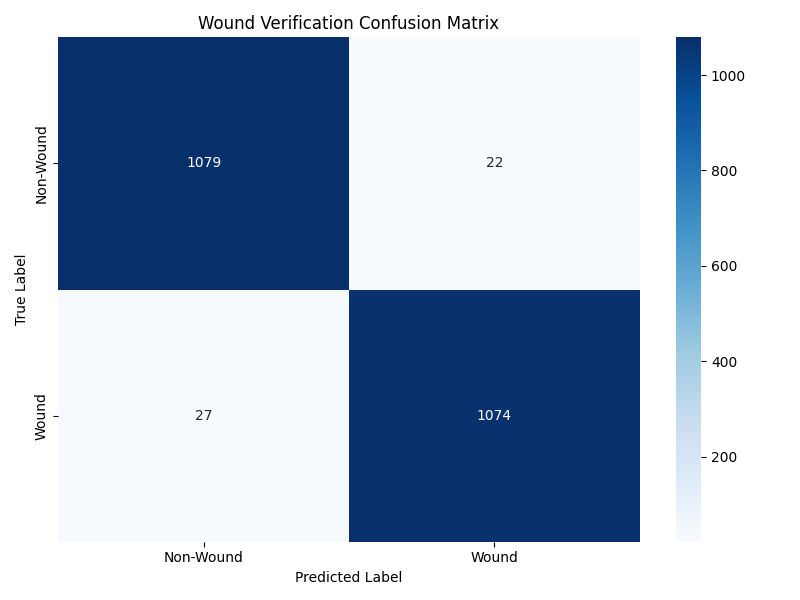
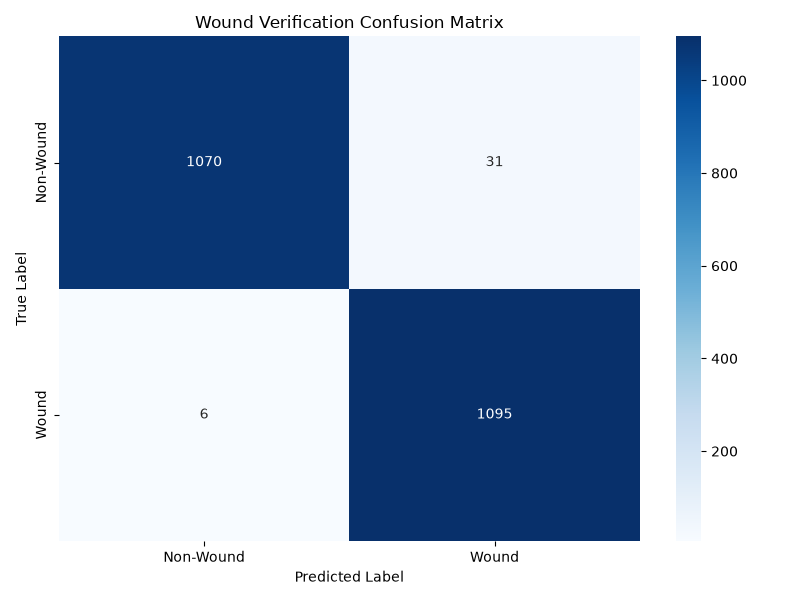
Saving metrics of the first local run

diff --git a/wound_classifier.py b/wound_classifier.py
@@ -559,6 +559,7 @@ def main() -> None:
     """Main training function."""
     # Configuration
     segmentation_model_path = "pretrained_best_efficientnet_b4_unet_model.pth"
+    # Considering changes on the batch size to gain performance.
     batch_size = 16
     learning_rate = 0.001
     num_epochs = 25
@@ -655,6 +656,11 @@ def main() -> None:
     )
     
     # Create dataloaders
+    # Possible improvements for trainment
+    # > batch_size
+    # > num_workers
+    # toggle pin_memory
+    # add prefetch_factor
     train_loader = DataLoader(train_dataset, batch_size=batch_size, shuffle=True, num_workers=0)
     test_loader = DataLoader(test_dataset, batch_size=batch_size, shuffle=False, num_workers=0)
     
